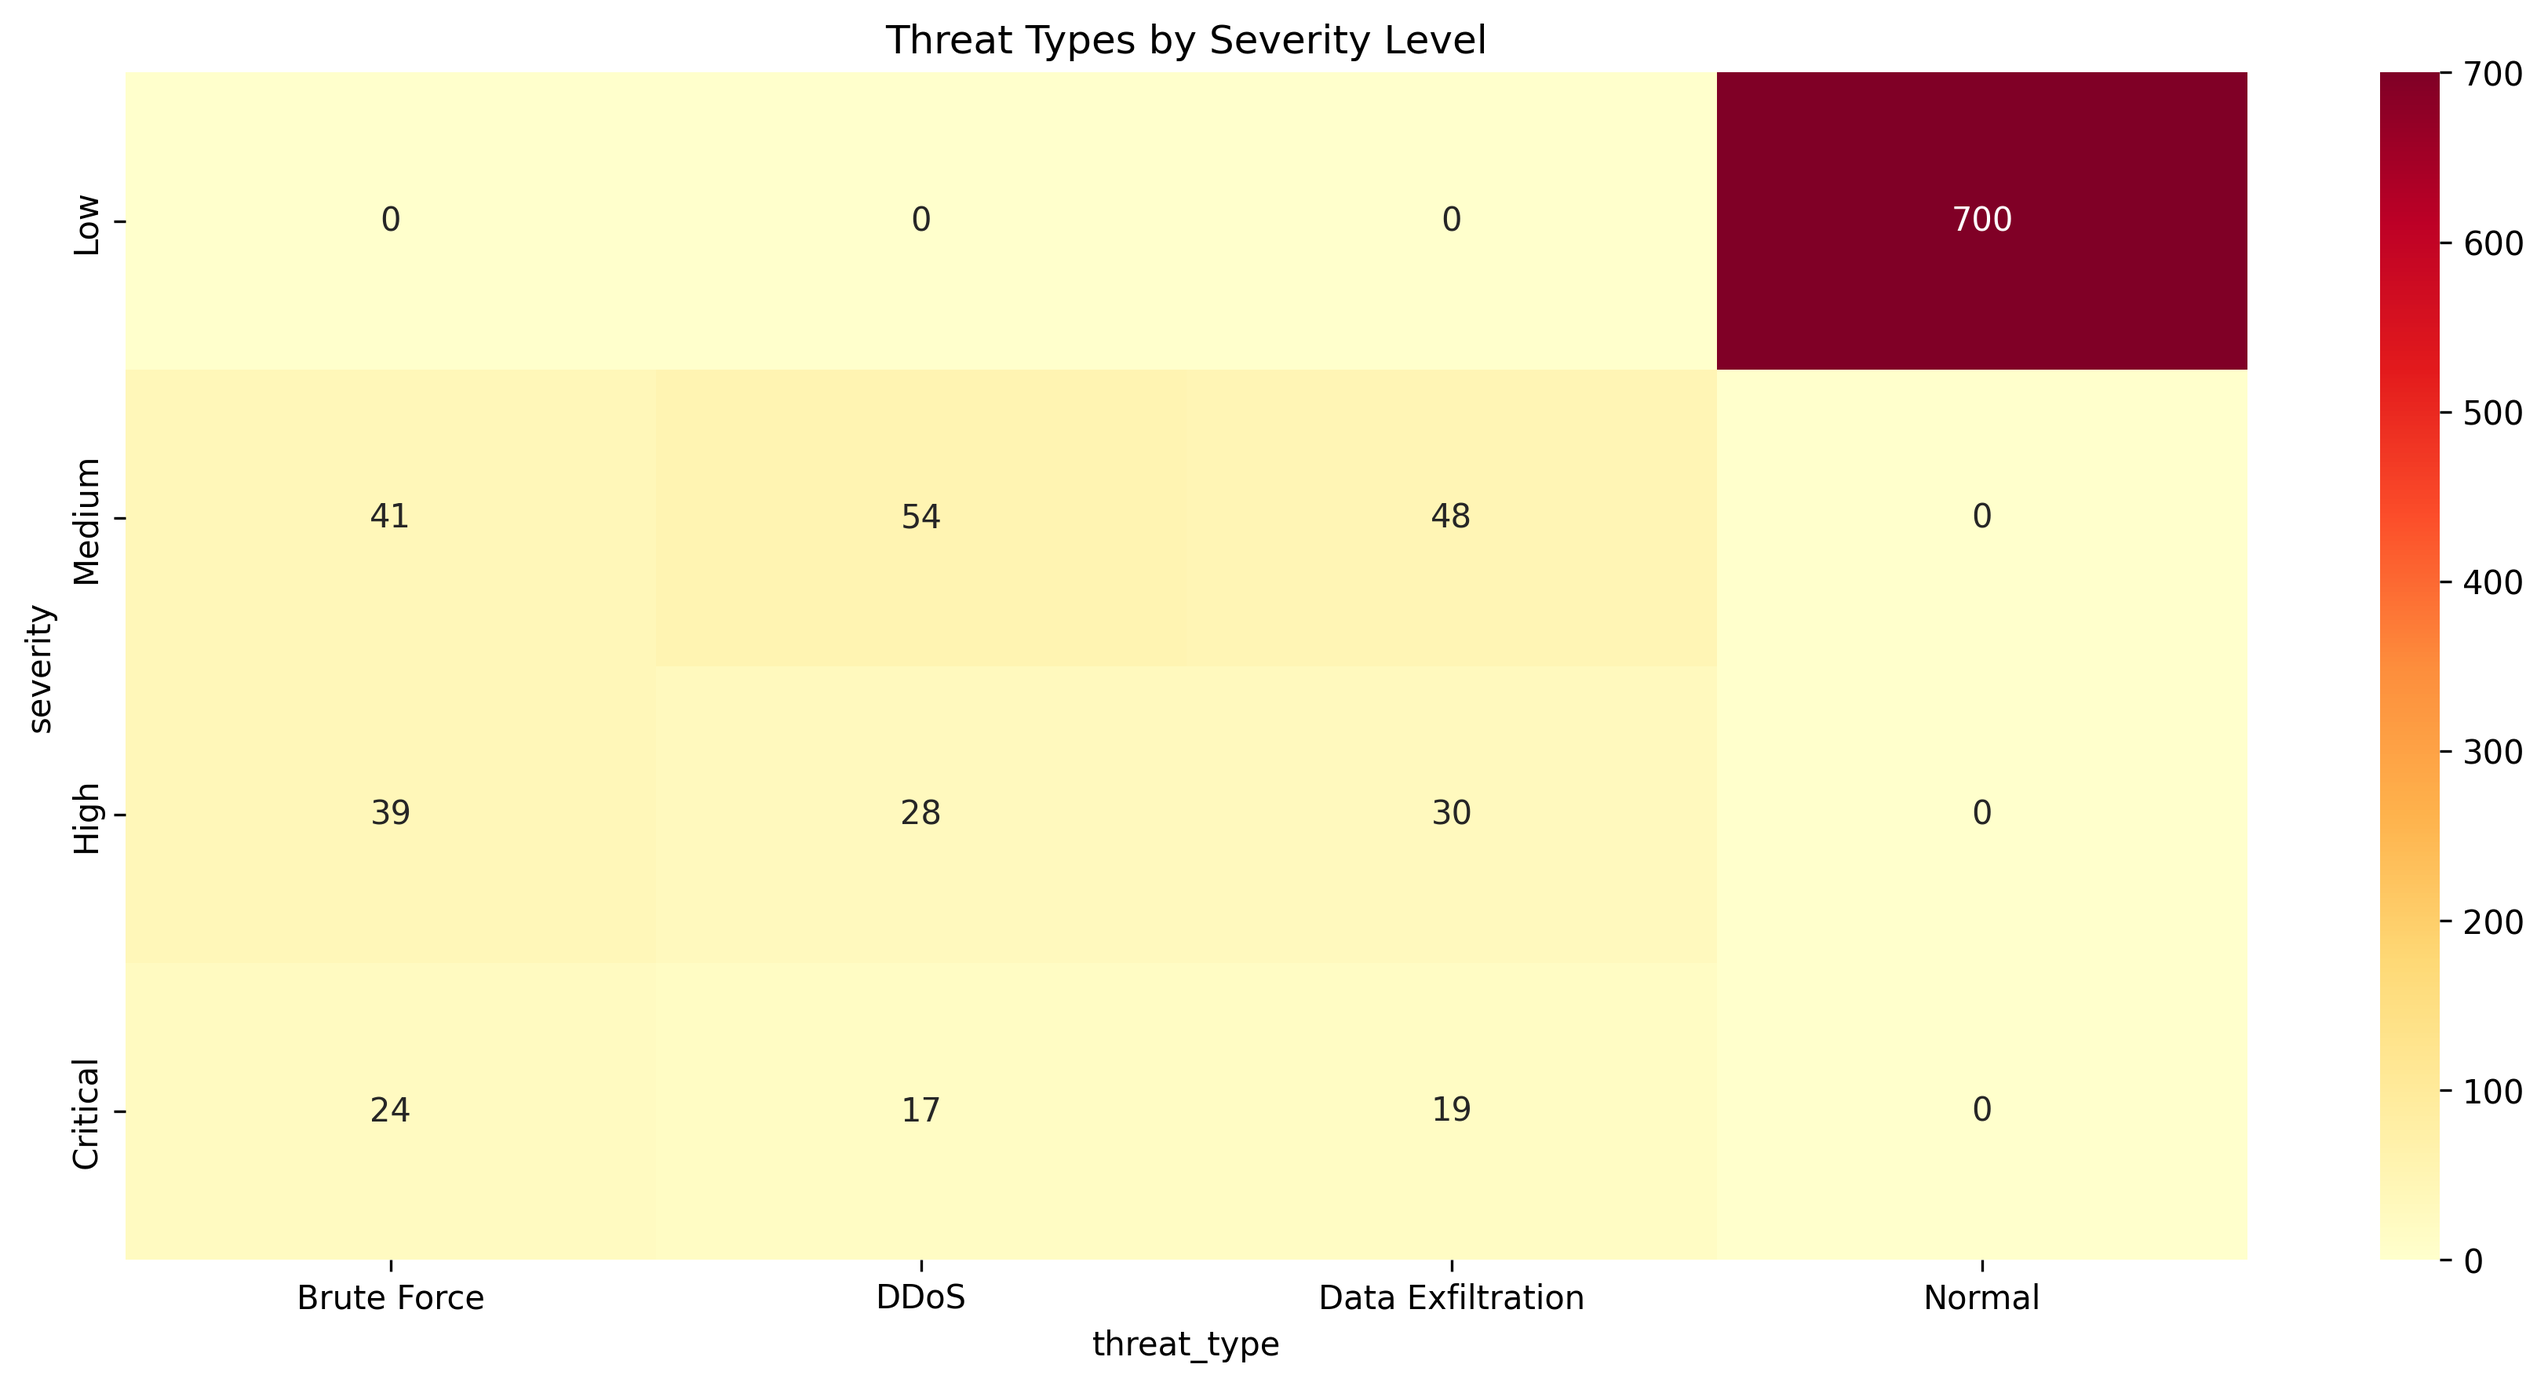
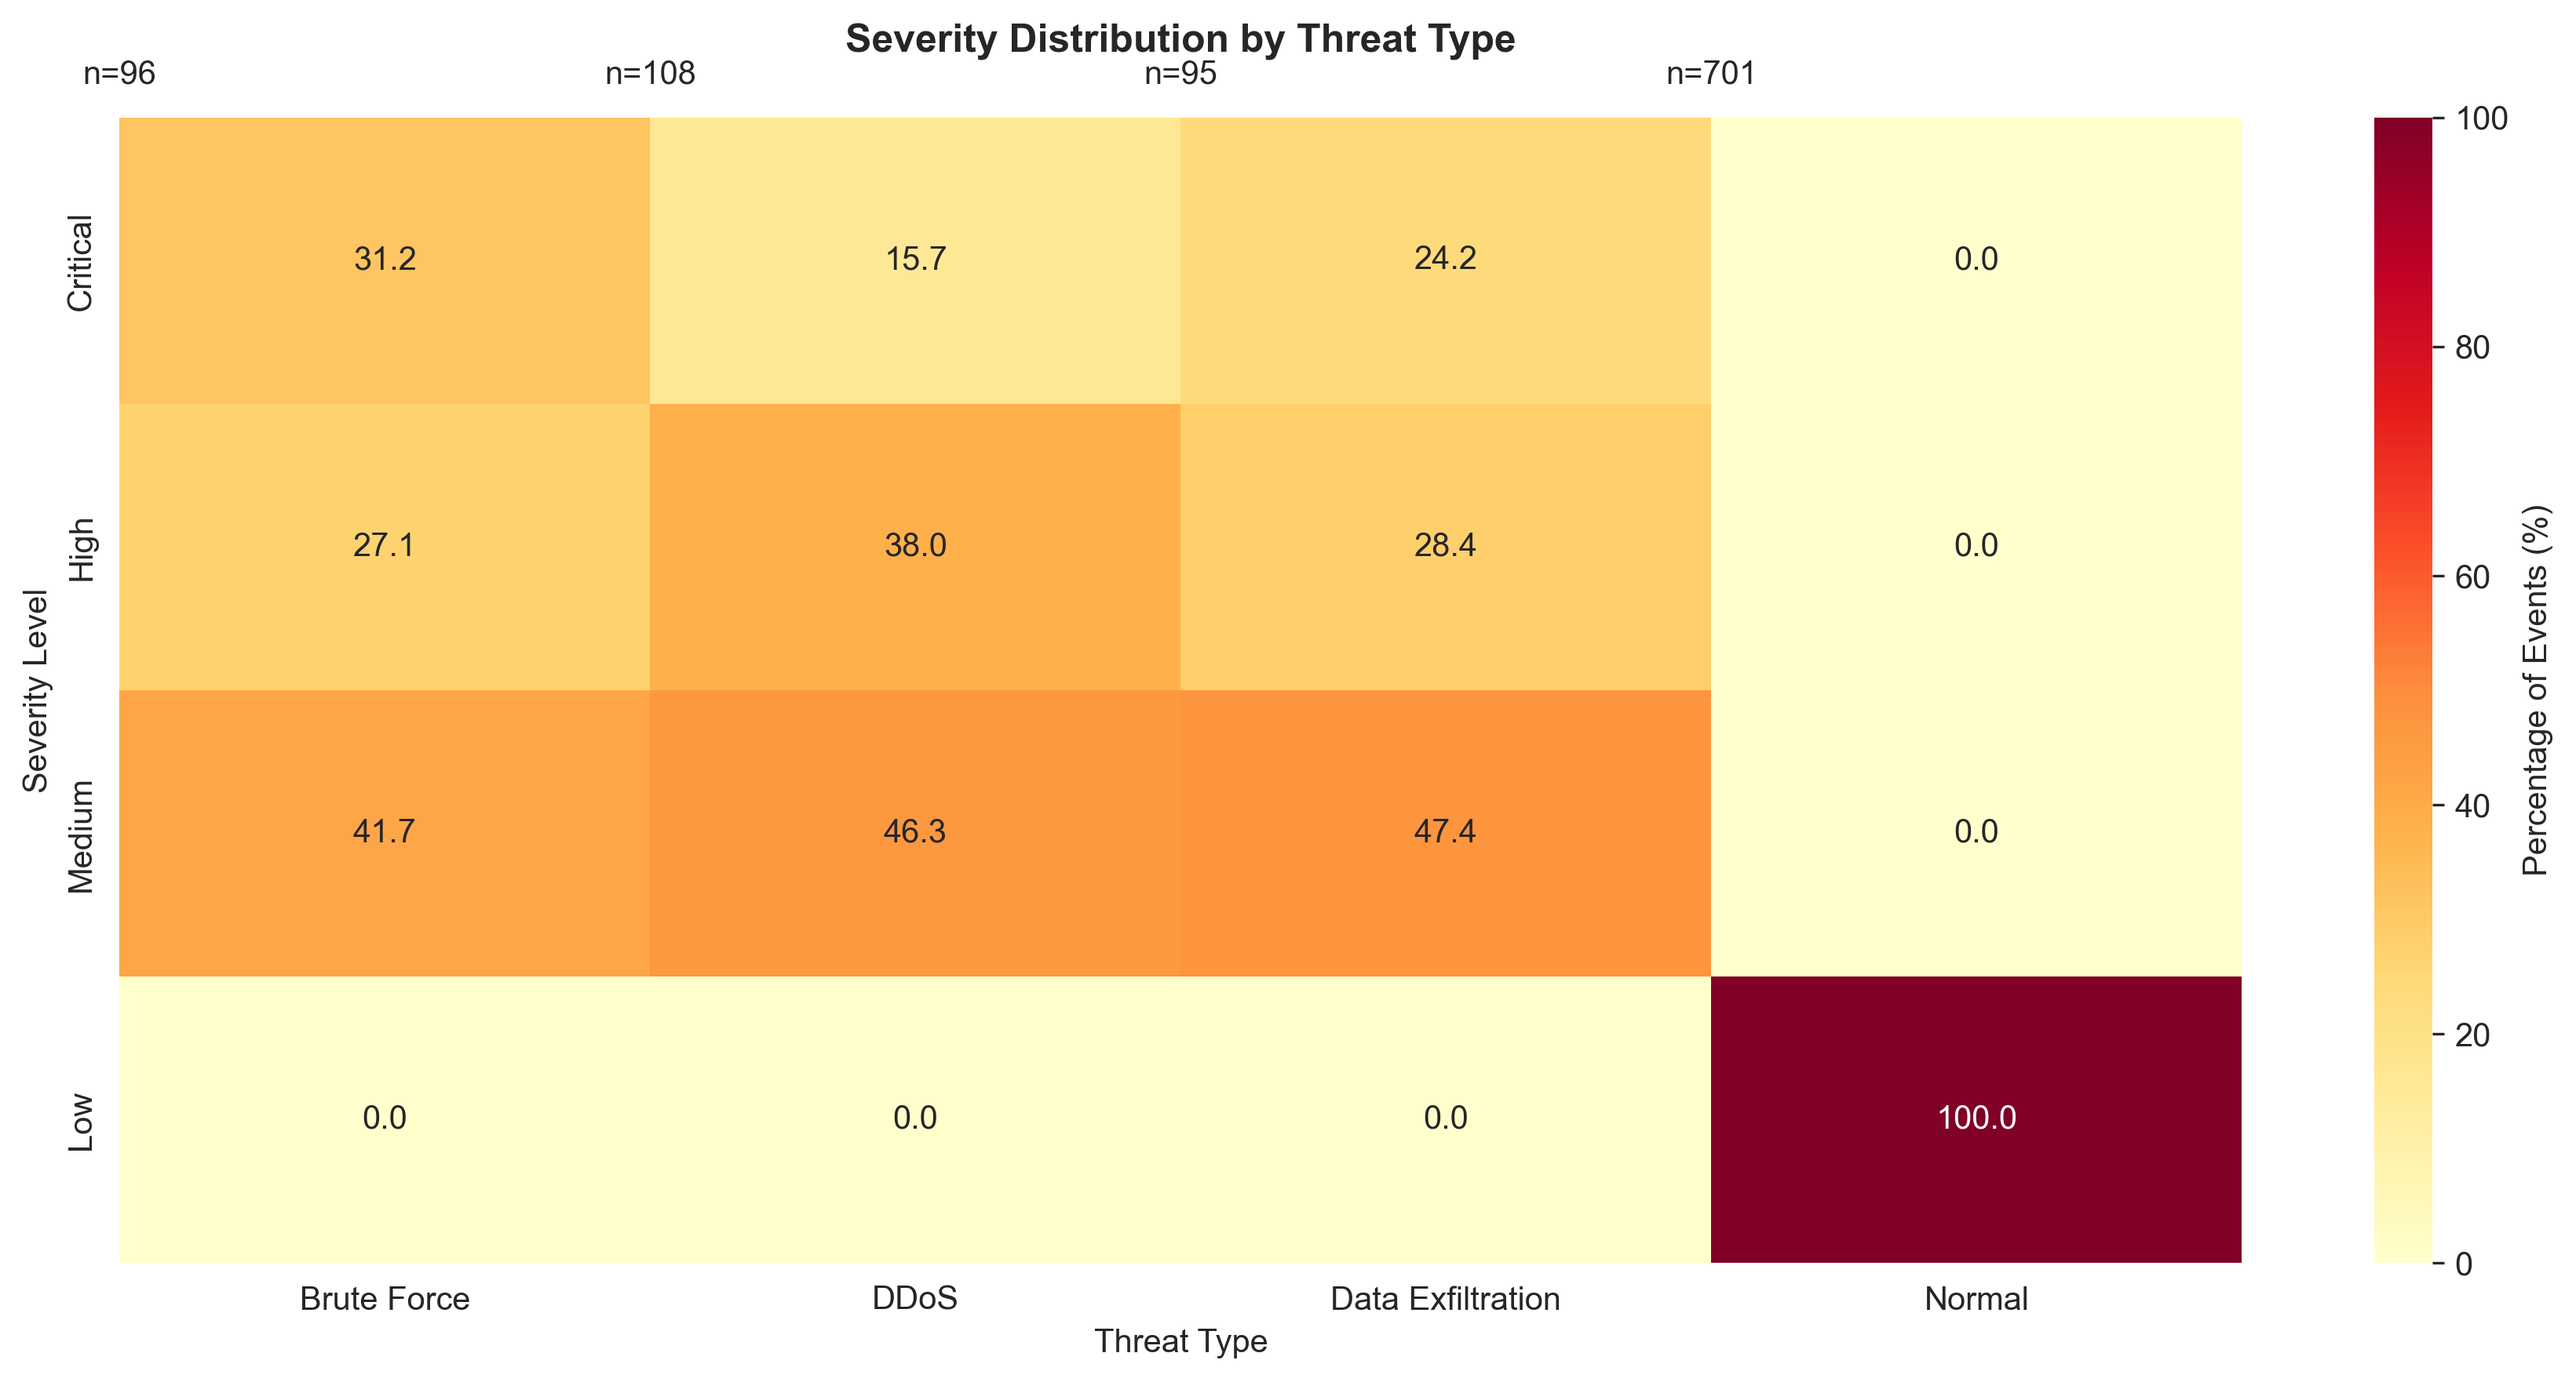
Enhanced Visualizations with More Stylings

diff --git a/examples/text_visualization_demo.py b/examples/text_visualization_demo.py
@@ -49,73 +49,159 @@ def create_threat_model(input_shape):
     return model
 
 def plot_threat_distribution(df, save_dir):
-    """Plot threat type distribution"""
+    """Plot threat type distribution with threat severity breakdown"""
     plt.figure(figsize=(12, 6))
+    sns.set_style("darkgrid")
     
-    # Create DataFrame for plotting
-    threat_data = df['threat_type'].value_counts().reset_index()
-    threat_data.columns = ['Threat Type', 'Count']
+    # Create stacked bars for severity levels
+    threat_severity = pd.crosstab(df['threat_type'], df['severity'])
+    severity_order = ['Critical', 'High', 'Medium', 'Low']
+    threat_severity = threat_severity[severity_order]
     
-    sns.barplot(data=threat_data, x='Count', y='Threat Type', palette='viridis')
-    plt.title('Distribution of Threat Types')
-    plt.xlabel('Number of Events')
-    plt.ylabel('Threat Type')
+    # Plot stacked bars
+    bottom = np.zeros(len(threat_severity))
+    colors = ['#FF4B4B', '#FF8C42', '#FFC857', '#8FD694']
+    
+    for severity, color in zip(severity_order, colors):
+        plt.bar(threat_severity.index, threat_severity[severity], 
+                bottom=bottom, label=severity, color=color)
+        bottom += threat_severity[severity]
+    
+    plt.title('Threat Distribution by Type and Severity', pad=20, fontsize=12, fontweight='bold')
+    plt.xlabel('Threat Type', fontsize=10)
+    plt.ylabel('Number of Events', fontsize=10)
+    plt.legend(title='Severity', bbox_to_anchor=(1.05, 1), loc='upper left')
+    plt.xticks(rotation=45, ha='right')
+    plt.grid(True, alpha=0.3)
     plt.tight_layout()
     
     plt.savefig(f"{save_dir}/threat_distribution.png", dpi=300, bbox_inches='tight')
     plt.close()
 
 def plot_severity_distribution(df, save_dir):
-    """Plot severity distribution by threat type"""
+    """Plot severity distribution with percentage annotations"""
     plt.figure(figsize=(12, 6))
+    sns.set_style("darkgrid")
     
-    # Create cross-tabulation
-    severity_threat = pd.crosstab(df['severity'], df['threat_type'])
-    severity_order = ['Low', 'Medium', 'High', 'Critical']
+    # Create cross-tabulation with percentages
+    severity_threat = pd.crosstab(df['severity'], df['threat_type'], normalize='columns') * 100
+    severity_order = ['Critical', 'High', 'Medium', 'Low']
     severity_threat = severity_threat.reindex(severity_order)
     
-    sns.heatmap(severity_threat, annot=True, fmt='d', cmap='YlOrRd')
-    plt.title('Threat Types by Severity Level')
-    plt.tight_layout()
+    # Create heatmap with custom styling
+    sns.heatmap(severity_threat, annot=True, fmt='.1f', cmap='YlOrRd',
+                cbar_kws={'label': 'Percentage of Events (%)'})
     
+    plt.title('Severity Distribution by Threat Type', pad=20, fontsize=12, fontweight='bold')
+    plt.xlabel('Threat Type', fontsize=10)
+    plt.ylabel('Severity Level', fontsize=10)
+    
+    # Add total counts as text
+    for i, threat in enumerate(severity_threat.columns):
+        total = len(df[df['threat_type'] == threat])
+        plt.text(i, -0.2, f'n={total}', ha='center', va='top')
+    
+    plt.tight_layout()
     plt.savefig(f"{save_dir}/severity_distribution.png", dpi=300, bbox_inches='tight')
     plt.close()
 
 def plot_temporal_pattern(df, save_dir):
-    """Plot temporal threat patterns"""
-    plt.figure(figsize=(12, 6))
+    """Plot temporal threat patterns with severity breakdown"""
+    sns.set_style("darkgrid")
     
-    # Group by hour and calculate threat counts
+    # Create subplots
+    fig, (ax1, ax2) = plt.subplots(2, 1, figsize=(15, 10), height_ratios=[2, 1])
+    
+    # Plot 1: Hourly threat counts by severity
     df['hour'] = df['timestamp'].dt.hour
-    hourly_threats = df[df['is_threat'] == 1].groupby('hour').size()
+    severity_order = ['Critical', 'High', 'Medium', 'Low']
+    colors = ['#FF4B4B', '#FF8C42', '#FFC857', '#8FD694']
     
-    # Create line plot
-    plt.plot(hourly_threats.index, hourly_threats.values, marker='o')
-    plt.title('Threat Distribution by Hour')
-    plt.xlabel('Hour of Day')
-    plt.ylabel('Number of Threats')
-    plt.grid(True, alpha=0.3)
-    plt.xticks(range(0, 24, 2))
+    for severity, color in zip(severity_order, colors):
+        hourly_severity = df[df['severity'] == severity].groupby('hour').size()
+        ax1.plot(hourly_severity.index, hourly_severity.values, 
+                 marker='o', label=severity, color=color, linewidth=2)
+    
+    ax1.set_title('Hourly Threat Distribution by Severity', pad=20, fontsize=12, fontweight='bold')
+    ax1.set_xlabel('Hour of Day', fontsize=10)
+    ax1.set_ylabel('Number of Events', fontsize=10)
+    ax1.grid(True, alpha=0.3)
+    ax1.legend(title='Severity', bbox_to_anchor=(1.05, 1))
+    ax1.set_xticks(range(0, 24, 2))
+    
+    # Plot 2: Threat type distribution over time
+    threat_types = df['threat_type'].unique()
+    for threat in threat_types:
+        if threat != 'Normal':
+            hourly_threats = df[df['threat_type'] == threat].groupby('hour').size()
+            ax2.plot(hourly_threats.index, hourly_threats.values, 
+                    marker='o', label=threat, linewidth=2)
+    
+    ax2.set_title('Hourly Distribution by Threat Type', pad=20, fontsize=12, fontweight='bold')
+    ax2.set_xlabel('Hour of Day', fontsize=10)
+    ax2.set_ylabel('Number of Events', fontsize=10)
+    ax2.grid(True, alpha=0.3)
+    ax2.legend(title='Threat Type', bbox_to_anchor=(1.05, 1))
+    ax2.set_xticks(range(0, 24, 2))
+    
     plt.tight_layout()
-    
     plt.savefig(f"{save_dir}/temporal_pattern.png", dpi=300, bbox_inches='tight')
     plt.close()
 
 def plot_feature_correlations(df, save_dir):
-    """Plot feature correlations"""
-    plt.figure(figsize=(10, 8))
+    """Plot feature correlations with enhanced styling"""
+    plt.figure(figsize=(12, 10))
+    sns.set_style("darkgrid")
     
-    # Select numeric features
-    features = ['packet_rate', 'bytes_per_packet', 'connection_duration', 
-                'error_rate', 'is_threat']
+    # Select and rename features for better readability
+    feature_map = {
+        'packet_rate': 'Packet Rate',
+        'bytes_per_packet': 'Bytes/Packet',
+        'connection_duration': 'Conn Duration',
+        'error_rate': 'Error Rate',
+        'is_threat': 'Is Threat'
+    }
+    
+    features = list(feature_map.keys())
     correlation_matrix = df[features].corr()
     
-    # Create heatmap with custom styling
-    sns.heatmap(correlation_matrix, annot=True, fmt='.2f', 
-                cmap='coolwarm', center=0, vmin=-1, vmax=1)
-    plt.title('Feature Correlations with Threat Detection')
-    plt.tight_layout()
+    # Create mask for upper triangle
+    mask = np.triu(np.ones_like(correlation_matrix), k=1)
     
+    # Create heatmap with custom styling
+    sns.heatmap(correlation_matrix, 
+                mask=mask,
+                annot=True, 
+                fmt='.2f',
+                cmap='coolwarm',
+                center=0,
+                vmin=-1,
+                vmax=1,
+                square=True,
+                linewidths=1,
+                cbar_kws={'label': 'Correlation Coefficient'})
+    
+    # Update labels
+    labels = [feature_map[f] for f in features]
+    plt.xticks(range(len(labels)), labels, rotation=45, ha='right')
+    plt.yticks(range(len(labels)), labels, rotation=0)
+    
+    plt.title('Network Feature Correlations\nfor Threat Detection', 
+              pad=20, fontsize=12, fontweight='bold')
+    
+    # Add correlation interpretation guide
+    plt.figtext(0.99, 0.15, 
+                'Correlation Guide:\n' +
+                '> 0.7: Strong Positive\n' +
+                '0.3 to 0.7: Moderate Positive\n' +
+                '-0.3 to 0.3: Weak\n' +
+                '-0.7 to -0.3: Moderate Negative\n' +
+                '< -0.7: Strong Negative',
+                bbox=dict(facecolor='white', alpha=0.8, edgecolor='none'),
+                fontsize=8,
+                ha='right')
+    
+    plt.tight_layout()
     plt.savefig(f"{save_dir}/feature_correlations.png", dpi=300, bbox_inches='tight')
     plt.close()
 
